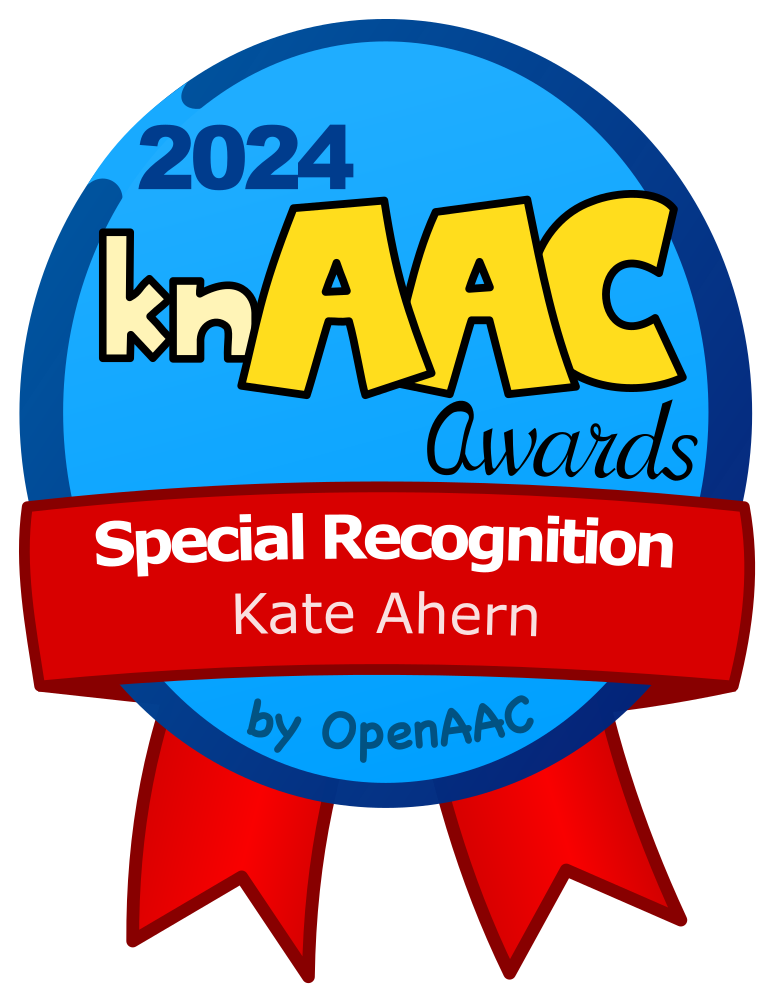
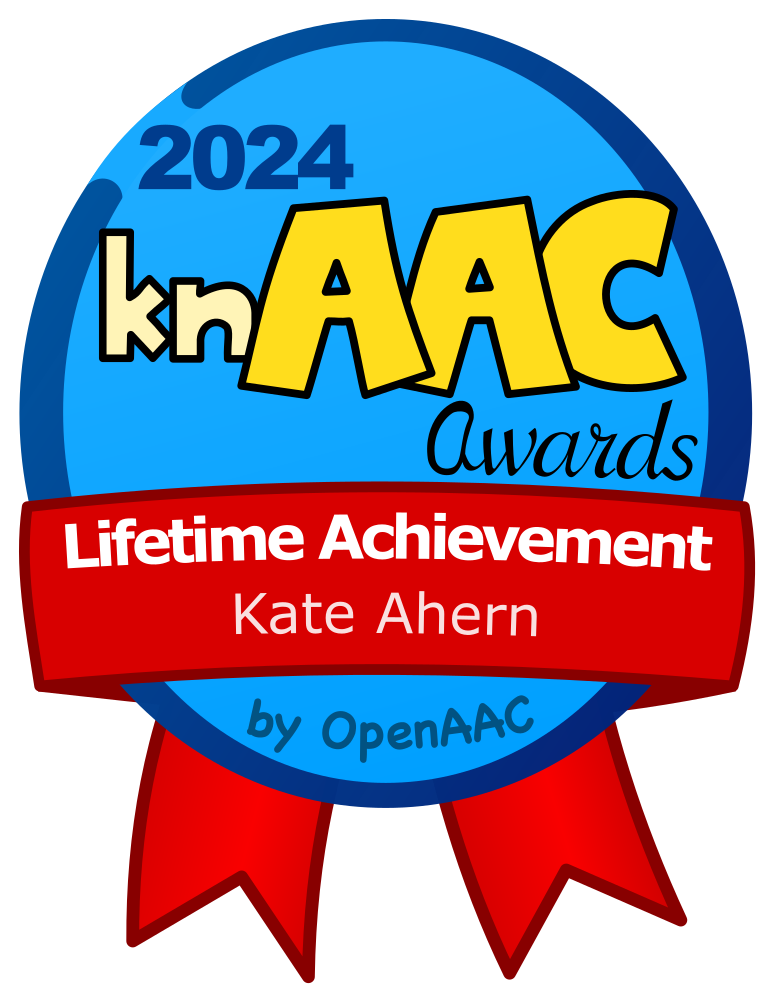
show winners

Changed region(s): [[0.0622, 0.496, 0.9326, 0.589]]

diff --git a/css/main.scss b/css/main.scss
@@ -1754,6 +1754,7 @@ $baseurl: '{{ site.baseurl }}/images';
 					object-fit: contain;
 					object-position: center;
 					margin-bottom: 1em;
+					box-shadow: 0 0 15px 2px #000;
 				}
 				h2 {
 					color: #222;

diff --git a/knaac-scoring.rb b/knaac-scoring.rb
@@ -91,10 +91,18 @@ while categories.any?{|cat, hash| hash['current'].length > 0}
     category_votes.each do |cat, hash|
       vote_hash = hash.except('done')
       # stop dropping when everyone left has tied for votes
+      total = vote_hash.to_a.map(&:last).sum
       lowest = vote_hash.to_a.map(&:last).sort.first
       highest = vote_hash.to_a.map(&:last).sort.last
       if lowest == highest
         category_votes[cat]['done'] = true
+      elsif highest.to_f / total >= 0.5
+        # stop if there's a majority winner
+        remaining = vote_hash.to_a.select{|cand, score| score == highest }.map(&:first)
+        dropped = vote_hash.to_a.map(&:first) - remaining
+        dropped.each do |cand|
+          category_votes[cat].delete(cand)
+        end
       else
         # find the lowest-voted candidate and remove them
         remaining = vote_hash.to_a.select{|cand, score| score > lowest }.map(&:first)
@@ -106,7 +114,7 @@ while categories.any?{|cat, hash| hash['current'].length > 0}
       # clear prior votes to prepare for the next round
       if !category_votes[cat]['done']
         category_votes[cat].each do |cand, val|
-          category_votes[cat][cand] = 0 unless cand == 'done'
+          #category_votes[cat][cand] = 0 unless cand == 'done'
         end
       end
     end

diff --git a/knaac-awards/2024/index.md b/knaac-awards/2024/index.md
@@ -185,9 +185,9 @@ bg: 4
 </p>
 <p>
   Voting has ended, and the final results are 
-  displayed below. Highlights are selected based primarily
-  on popular vote with additional input provided
-  by our judging team. Congratulations to the 
+  displayed below! Highlights are selected based primarily
+  on popular vote, with additional input provided
+  by our judging team. Only the first two candidates are shown in ranked order. Congratulations to the 
   highlighted candidates and thank you again
   to the over 100 nominees in 18 different categories!
 </p>
@@ -265,7 +265,7 @@ bg: 4
       <h4>Kate Ahern</h4>
       <img src="/images/2024/kate-ahern.jpeg" class='photo' alt='' />
       <span class='sub'>
-      About. Kate is a renowned special education teacher, consultant, and author with over two decades of experience. She specializes in helping children with complex communication needs, sensory processing issues, and profound/multiple disabilities. She operates multiple Facebook groups and teaches online classes focused on supporting AAC users.
+      Kate is a renowned special education teacher, consultant, and author with over two decades of experience. She specializes in helping children with complex communication needs, sensory processing issues, and profound/multiple disabilities. She operates multiple Facebook groups and teaches online classes focused on supporting AAC users.
       </span>
     </div>
     <div class='nominee' data-rank='3'>
@@ -296,7 +296,7 @@ bg: 4
       <img src="/images/2024/touchchat.jpeg" class='img' alt='' />
       </a>
       <span class='sub'>
-        Designed for individuals with autism, Down syndrome, ALS, apraxia, stroke, or other conditions that affect a person's ability to use natural speech, TouchChat uses the familiarity of iOS technology to provide a dynamic AAC solution for a lifetime of successful communication. With easy-to-customize features and a wide range of intuitive vocabularies (including the most comprehensive WordPower® options), languages, and voices, people who are non-speaking can experience the unlimited power of communication. TouchChat is a universal app supporting iPhone®, iPod®, and iPad® as well as multiple access methods.
+        TouchChat HD with WordPower - Designed for individuals with autism, Down syndrome, ALS, apraxia, stroke, or other conditions that affect a person's ability to use natural speech, TouchChat uses the familiarity of iOS technology to provide a dynamic AAC solution for a lifetime of successful communication. With easy-to-customize features and a wide range of intuitive vocabularies (including the most comprehensive WordPower® options), languages, and voices, people who are non-speaking can experience the unlimited power of communication. TouchChat is a universal app supporting iPhone®, iPod®, and iPad® as well as multiple access methods.
       </span>
     </div>
     <div class='nominee' data-rank='3'>
@@ -564,7 +564,7 @@ bg: 4
 <div>
   <h3><img src='https://d18vdu4p71yql0.cloudfront.net/libraries/twemoji/2139.svg'/> AAC Supporter Community of the Year</h3>
   <div class='nominees'>
-    <div class='nominee' data-rank='2'>
+    <div class='nominee' data-rank='3'>
       <a href="https://www.facebook.com/groups/1539830846285663/" target='_blank'>
       <h4>AAC for the SLP</h4>
       <img src="/images/2024/knaac/aac-for-the-slp.jpeg" class='img' alt='' />
@@ -601,7 +601,7 @@ bg: 4
         AAC & Gestalt Language Processing - This group is designed to discuss AAC and Gestalt Language Processing! Many people have had success stories with these students, but we don't have one place to share all the information. This group is designed to do just that! Share ideas an collaborate as professionals, parents, and others.      
       </span>
     </div>
-    <div class='nominee' data-rank='3'>
+    <div class='nominee' data-rank='2'>
       <a href="https://www.facebook.com/groups/AACthruMMM/" target='_blank'>
       <h4>AAC through Motivate...</h4>
       <img src="/images/2024/knaac/aac-through-motivate.jpeg" class='img' alt='' />
@@ -691,7 +691,7 @@ bg: 4
         The program is divided into 20 parts with the intention to complete one part a week. There are activities, resources and videos to guide you along the way. Our hope is that you find support and inspiration whether you are just getting started with AAC, seeking momentum or looking to learn more about AAC.
       </span>
     </div>
-    <div class='nominee' data-rank='2'>
+    <div class='nominee' data-rank='3'>
       <a href="https://www.sharedreader.org/professional-development/" target='_blank'>
       <h4>Tarheel Shared Reader</h4>
       <img src="/images/2024/knaac/tarheel-shared-reader.png" class='img' alt='' />
@@ -701,7 +701,7 @@ bg: 4
         Tar Heel Shared Reader strives to improve literacy, communication, language, and academic skills of this group of students. The goal is to empower teachers to use an evidence-based approach to shared reading to provide their students with interactive access to grade level content while improving their students’ communication and literacy skills.        
       </span>
     </div>
-    <div class='nominee' data-rank='3'>
+    <div class='nominee' data-rank='2'>
       <a href="https://www.project-core.com/professional-development-modules/" target='_blank'>
       <h4>Project Core</h4>
       <img src="/images/2024/project-core.png" class='img' alt='' />
@@ -823,7 +823,7 @@ bg: 4
         With our free Board Builder and Symbol Creator, you can quickly create boards of symbols to help communication. Create boards for day-to-day activities, special occasions, special topics such as games or mealtimes etc. The templates are easy to use for making information sheets or any curtomised designs you want to create.
       </span>
     </div>
-    <div class='nominee' data-rank='3'>
+    <div class='nominee' data-rank='2'>
       <a href="https://goboardmaker.com/" target='_blank'>
       <h4>BoardMaker</h4>
       <img src="/images/2024/knaac/boardmaker.png" class='img' alt='' />
@@ -1123,8 +1123,8 @@ bg: 4
       <img src="/images/2024/wordpower.jpeg" class='img' alt='' />
       </a>
       <span class='sub'>
-        WordPower by Nancy Inman is a unique vocabulary design for an augmentative/alternative communication device. WordPower combines the features of core vocabulary, spelling and word prediction. The system takes advantage of the fact that while we may have a normal speaking vocabulary of between 10,000 and 30,000 words, a core of just 100 words accounts for approximately 50 percent of words spoken.
-        WordPower is available on multiple AAC systems, and was originally designed for an individual in need of an augmentative communication device based on words. A vocabulary based on pre-stored sentences would not meet his communication needs. Though he could see the advantage of a picture-based system with symbol sequencing, he did not want to learn the complex language coding system. At the same time, he wanted more than a system based on spelling and word prediction. WordPower provided him a fast and efficient language, with minimal time and effort required for learning the system.
+        WordPower by Nancy Inman is a unique vocabulary design for an augmentative/alternative communication device. WordPower combines the features of core vocabulary, spelling and word prediction. The system takes advantage of the fact that while we may have a normal speaking vocabulary of between 10,000 and 30,000 words, a core of just 100 words accounts for approximately 50 percent of words spoken.<br/><br/>
+        Nancy has customized WordPower for multiple AAC systems, and it was originally designed for an individual in need of an augmentative communication device based on words. A vocabulary based on pre-stored sentences would not meet his communication needs. Though he could see the advantage of a picture-based system with symbol sequencing, he did not want to learn the complex language coding system. At the same time, he wanted more than a system based on spelling and word prediction. WordPower provided him a fast and efficient language, with minimal time and effort required for learning the system.
       </span>
     </div>
     <div class='nominee' data-rank='2'>
@@ -1237,6 +1237,20 @@ bg: 4
   </div>
 </div>
 
+<div>
+  <h3><img src='https://d18vdu4p71yql0.cloudfront.net/libraries/twemoji/1f3c6.svg'/> Lifetime Achievement (Judges' Selection)</h3>
+  <div class='nominees'>
+    <div class='nominee' data-rank='1'>
+      <h4>Kate Ahern</h4>
+      <img src="/images/2024/kate-ahern.jpeg" class='photo' alt='' />
+      <span class='sub'>
+      Kate is a renowned special education teacher, consultant, and author with over two decades of experience. She specializes in helping children with complex communication needs, sensory processing issues, and profound/multiple disabilities. She operates multiple Facebook groups and teaches online classes focused on supporting AAC users.
+      <br/><br/>Kate constantly advocates for and empowers AAC users no matter the severity of their disability, and regularly shares relatable, practical examples of how to support AAC users in their developing communication skills. She is an uncompromising inspiration to the AAC community, and we honor her for all of her ongoing efforts.
+      </span>
+    </div>
+  </div>
+</div>
+
 <div style='width: 400px; margin: 0 auto; max-width: 100%;'>
   <a href="/donate" class="button fit special" style='font-size: 20px; height: 90px; line-height: 25px; padding: 20px 10px;'>Donate to<br/>OpenAAC</a>
 </div>
@@ -1276,9 +1290,9 @@ bg: 4
       nom.final_rank = parseInt(nom.getAttribute('data-rank'), 10) || 10;
       list.push(nom);
       if(nom.getAttribute('data-rank') == '1') {
-        // nom.classList.add('winner');
+        nom.classList.add('winner');
       } else if(nom.getAttribute('data-rank') == '2') {
-        // nom.classList.add('runner-up');
+        nom.classList.add('runner-up');
       }
     });
     console.log(noms.parentNode.querySelector('h3').innerText);
